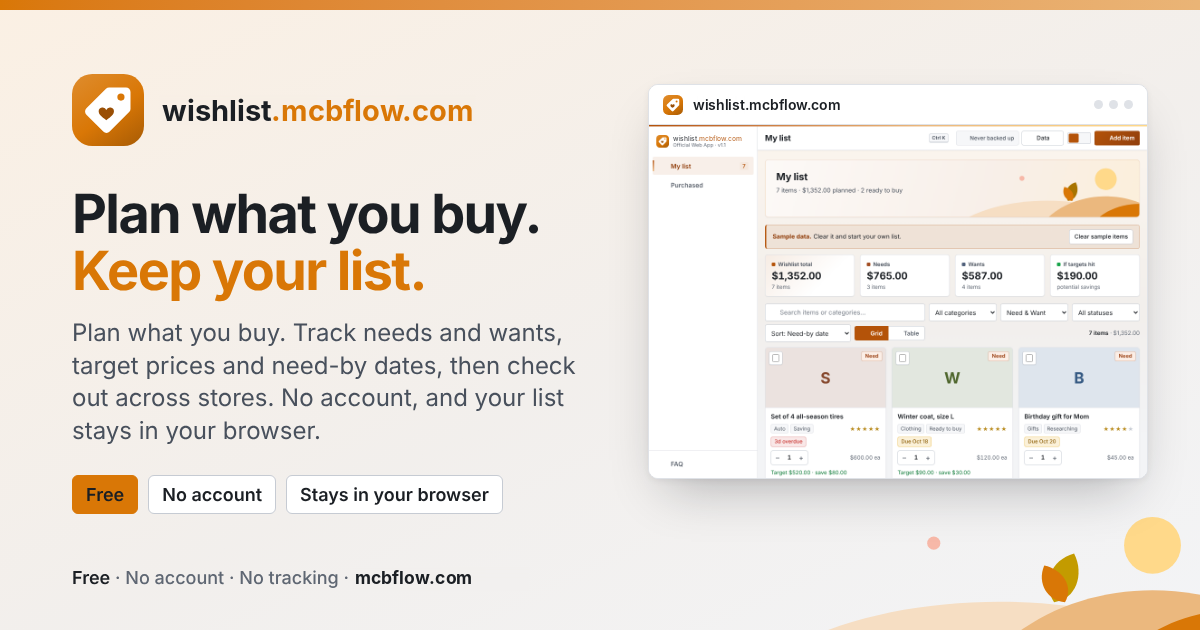
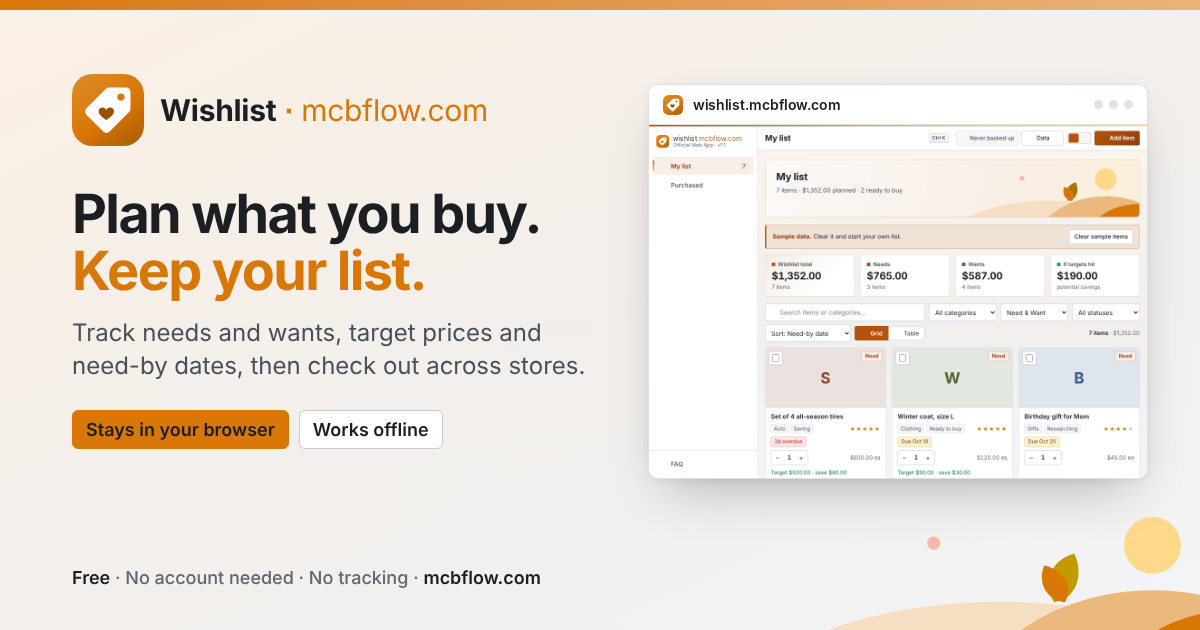
Add files via upload

diff --git a/index.html b/index.html
@@ -5,20 +5,20 @@
 <meta name="viewport" content="width=device-width, initial-scale=1.0, viewport-fit=cover">
 <meta http-equiv="Content-Security-Policy" content="default-src 'none'; style-src 'self' 'unsafe-inline'; img-src 'self' data: blob:; script-src 'self' 'unsafe-inline'; base-uri 'none'; form-action 'none'; connect-src https://rxvcjdwmvxhwbdwncfhj.supabase.co; manifest-src 'self'; worker-src 'self';">
 <title>Wishlist | My list</title>
-<meta name="description" content="Free wishlist and shopping planner. Track needs and wants, target prices and need-by dates. No account, and your list stays in your browser.">
+<meta name="description" content="Free wishlist and shopping planner. Track needs and wants, target prices and need-by dates. No account needed, and your list stays in your browser.">
 <link rel="canonical" href="https://wishlist.mcbflow.com/">
 <meta property="og:type" content="website">
 <meta property="og:site_name" content="wishlist.mcbflow.com">
-<meta property="og:title" content="wishlist.mcbflow.com: free wishlist and shopping planner">
-<meta property="og:description" content="Plan what you buy. Track needs and wants, target prices and need-by dates, then check out across stores. No account, and your list stays in your browser.">
+<meta property="og:title" content="Wishlist: Free wishlist and shopping planner">
+<meta property="og:description" content="Plan what you buy. Track needs and wants, target prices and need-by dates, then check out across stores. No account needed, and your list stays in your browser.">
 <meta property="og:url" content="https://wishlist.mcbflow.com/">
 <meta property="og:image" content="https://wishlist.mcbflow.com/og-image.png">
 <meta property="og:image:width" content="1200">
 <meta property="og:image:height" content="630">
-<meta property="og:image:alt" content="wishlist.mcbflow.com: a wishlist and shopping planner that keeps your list in your browser">
+<meta property="og:image:alt" content="Wishlist: A wishlist and shopping planner that keeps your list in your browser">
 <meta name="twitter:card" content="summary_large_image">
-<meta name="twitter:title" content="wishlist.mcbflow.com: free wishlist and shopping planner">
-<meta name="twitter:description" content="Track needs and wants, target prices and need-by dates. No account, and your list stays in your browser.">
+<meta name="twitter:title" content="Wishlist: Free wishlist and shopping planner">
+<meta name="twitter:description" content="Track needs and wants, target prices and need-by dates. No account needed, and your list stays in your browser.">
 <meta name="twitter:image" content="https://wishlist.mcbflow.com/og-image.png">
 <link rel="manifest" href="manifest.json">
 <link rel="icon" href="favicon.svg" type="image/svg+xml">
@@ -30,7 +30,7 @@
 <meta name="mobile-web-app-capable" content="yes">
 <meta name="apple-mobile-web-app-capable" content="yes">
 <script type="application/ld+json">
-{"@context":"https://schema.org","@type":"WebApplication","name":"wishlist.mcbflow.com","alternateName":"Wishlist","url":"https://wishlist.mcbflow.com/","description":"Free wishlist and shopping planner. Track needs and wants, target prices and need-by dates. No account, and your list stays in your browser.","applicationCategory":"ShoppingApplication","operatingSystem":"Any (runs in a web browser)","browserRequirements":"Requires JavaScript","isAccessibleForFree":true,"offers":{"@type":"Offer","price":"0","priceCurrency":"USD"},"author":{"@type":"Person","name":"Matthew Broyer","url":"https://matthewbroyer.com/"}}
+{"@context":"https://schema.org","@type":"WebApplication","name":"wishlist.mcbflow.com","alternateName":"Wishlist","url":"https://wishlist.mcbflow.com/","description":"Free wishlist and shopping planner. Track needs and wants, target prices and need-by dates. No account needed, and your list stays in your browser.","applicationCategory":"ShoppingApplication","operatingSystem":"Any (runs in a web browser)","browserRequirements":"Requires JavaScript","isAccessibleForFree":true,"offers":{"@type":"Offer","price":"0","priceCurrency":"USD"},"author":{"@type":"Person","name":"Matthew Broyer","url":"https://matthewbroyer.com/"}}
 </script>
 <script>
 (function(){
@@ -987,11 +987,11 @@ dialog.mb-share::backdrop{background:var(--scrim)}
 <nav class="bnav" id="bnav" aria-label="Sections">
   <button type="button" data-tab="wishlist" aria-current="page"><svg class="uic" viewBox="0 0 24 24" width="18" height="18" fill="none" stroke="currentColor" stroke-width="1.8" stroke-linecap="round" stroke-linejoin="round" aria-hidden="true" focusable="false"><path d="M8 6h12M8 12h12M8 18h12M4 6h.01M4 12h.01M4 18h.01"/></svg><span>My list</span></button>
   <button type="button" data-tab="purchased"><svg class="uic" viewBox="0 0 24 24" width="18" height="18" fill="none" stroke="currentColor" stroke-width="1.8" stroke-linecap="round" stroke-linejoin="round" aria-hidden="true" focusable="false"><path d="M6 7h12l-1 13H7L6 7Z"/><path d="M9 7a3 3 0 0 1 6 0"/><path d="m9.5 13.5 2 2 3.5-4"/></svg><span>Purchased</span></button>
+  <button type="button" data-tab="settings"><svg class="uic" viewBox="0 0 24 24" width="18" height="18" fill="none" stroke="currentColor" stroke-width="1.8" stroke-linecap="round" stroke-linejoin="round" aria-hidden="true" focusable="false"><path d="M19.00 10.32 L21.51 10.72 L21.51 13.28 L19.00 13.68 L18.14 15.76 L19.63 17.82 L17.82 19.63 L15.76 18.14 L13.68 19.00 L13.28 21.51 L10.72 21.51 L10.32 19.00 L8.24 18.14 L6.18 19.63 L4.37 17.82 L5.86 15.76 L5.00 13.68 L2.49 13.28 L2.49 10.72 L5.00 10.32 L5.86 8.24 L4.37 6.18 L6.18 4.37 L8.24 5.86 L10.32 5.00 L10.72 2.49 L13.28 2.49 L13.68 5.00 L15.76 5.86 L17.82 4.37 L19.63 6.18 L18.14 8.24Z"/><circle cx="12" cy="12" r="3"/></svg><span>Settings</span></button>
   <button type="button" data-tab="help"><svg class="uic" viewBox="0 0 24 24" width="18" height="18" fill="none" stroke="currentColor" stroke-width="1.8" stroke-linecap="round" stroke-linejoin="round" aria-hidden="true" focusable="false"><circle cx="12" cy="12" r="9"/><path d="M9.3 9.3a2.8 2.8 0 1 1 3.9 2.6c-.7.3-1.2 1-1.2 1.8v.6"/><path d="M12 17.3h.01"/></svg><span>Help</span></button>
   <button type="button" id="bnMoreBtn" aria-expanded="false" aria-controls="bnSheet"><svg class="uic" viewBox="0 0 24 24" width="18" height="18" fill="currentColor" stroke="none" aria-hidden="true" focusable="false"><circle cx="5.5" cy="12" r="1.7"/><circle cx="12" cy="12" r="1.7"/><circle cx="18.5" cy="12" r="1.7"/></svg><span>More</span></button>
 </nav>
 <div class="bn-sheet" id="bnSheet" hidden>
-  <button type="button" class="bn-item" data-sheet="settings"><svg class="uic" viewBox="0 0 24 24" width="18" height="18" fill="none" stroke="currentColor" stroke-width="1.8" stroke-linecap="round" stroke-linejoin="round" aria-hidden="true" focusable="false"><path d="M19.00 10.32 L21.51 10.72 L21.51 13.28 L19.00 13.68 L18.14 15.76 L19.63 17.82 L17.82 19.63 L15.76 18.14 L13.68 19.00 L13.28 21.51 L10.72 21.51 L10.32 19.00 L8.24 18.14 L6.18 19.63 L4.37 17.82 L5.86 15.76 L5.00 13.68 L2.49 13.28 L2.49 10.72 L5.00 10.32 L5.86 8.24 L4.37 6.18 L6.18 4.37 L8.24 5.86 L10.32 5.00 L10.72 2.49 L13.28 2.49 L13.68 5.00 L15.76 5.86 L17.82 4.37 L19.63 6.18 L18.14 8.24Z"/><circle cx="12" cy="12" r="3"/></svg>Settings</button>
   <button type="button" class="bn-item" data-sheet="search"><svg class="i" aria-hidden="true"><use href="#i-search"/></svg>Search</button>
   <button type="button" class="bn-item" data-sheet="release"><svg class="i" aria-hidden="true"><use href="#i-doc"/></svg>What’s new</button>
   <button type="button" class="bn-item" data-sheet="privacy"><svg class="i" aria-hidden="true"><use href="#i-doc"/></svg>Privacy Policy</button>
@@ -1255,7 +1255,7 @@ dialog.mb-share::backdrop{background:var(--scrim)}
       <div class="release-entry">
         <div class="rel-head"><span class="rel-version">v1.5</span><span class="pill">Latest</span><span class="rel-date">Oct 16, 2026</span></div>
         <ul>
-          <li>New Settings page (gear, bottom of the sidebar; first item under More on phones): theme, account and sync, list layout, backups, install and app info in one place</li>
+          <li>New Settings page (gear, bottom of the sidebar; its own tab in the bottom bar on phones): theme, account and sync, list layout, backups, install and app info in one place</li>
           <li>Account button in the top bar: sign in, or see your profile picture and sync status. Pick a screen name and one of the profile pictures under Edit profile, and turn off "Keep me signed in" on a shared computer</li>
           <li>A greeting above My list ("Good morning", with your name when you're signed in)</li>
           <li>New welcome screen, the same in every mcbflow.com app: what Wishlist does, light or dark, then start with the sample list or an empty one. You can sign in or import a backup from it too</li>
@@ -3997,7 +3997,7 @@ dialog.mb-share::backdrop{background:var(--scrim)}
     $('statsRow').hidden = info;
     $('addItemBtn').hidden = info;
     $('releaseNotesBtn').hidden = tab !== 'help';
-    if(tab === 'settings') $('bnMoreBtn').setAttribute('aria-current','page'); else $('bnMoreBtn').removeAttribute('aria-current');
+    $('bnMoreBtn').removeAttribute('aria-current');   // Settings has its own bottom tab (1.5.1)
     if(tab === 'settings' && window.MBInstall) MBInstall.render();
     renderAll();
   }

diff --git a/404.html b/404.html
@@ -26,8 +26,8 @@ a:focus-visible{outline:2px solid var(--accent);outline-offset:2px;border-radius
 header{width:min(720px,100% - 32px);margin:0 auto;padding:20px 0 0}
 .brand{display:inline-flex;align-items:center;gap:10px;color:var(--ink);text-decoration:none;font-weight:650;font-size:16px}
 .brand svg{width:34px;height:34px;flex:none;border-radius:8px}
-.brand i{font-style:normal;font-weight:500;color:var(--accent)}
-.brand .sep{margin:0 .32em 0 .34em;color:var(--muted);font-weight:400}
+.brand i{font-style:normal;font-weight:400;color:var(--accent)}
+.brand .sep{margin:0 .32em 0 .34em;color:var(--accent);font-weight:700}
 main{flex:1;width:min(720px,100% - 32px);margin:18px auto 24px}
 .card{position:relative;overflow:hidden;background:var(--surface);border:1px solid var(--border);border-radius:8px;
  box-shadow:0 1px 2px rgba(20,24,31,.06),0 12px 32px -18px rgba(20,24,31,.28);padding:28px 28px 0}
